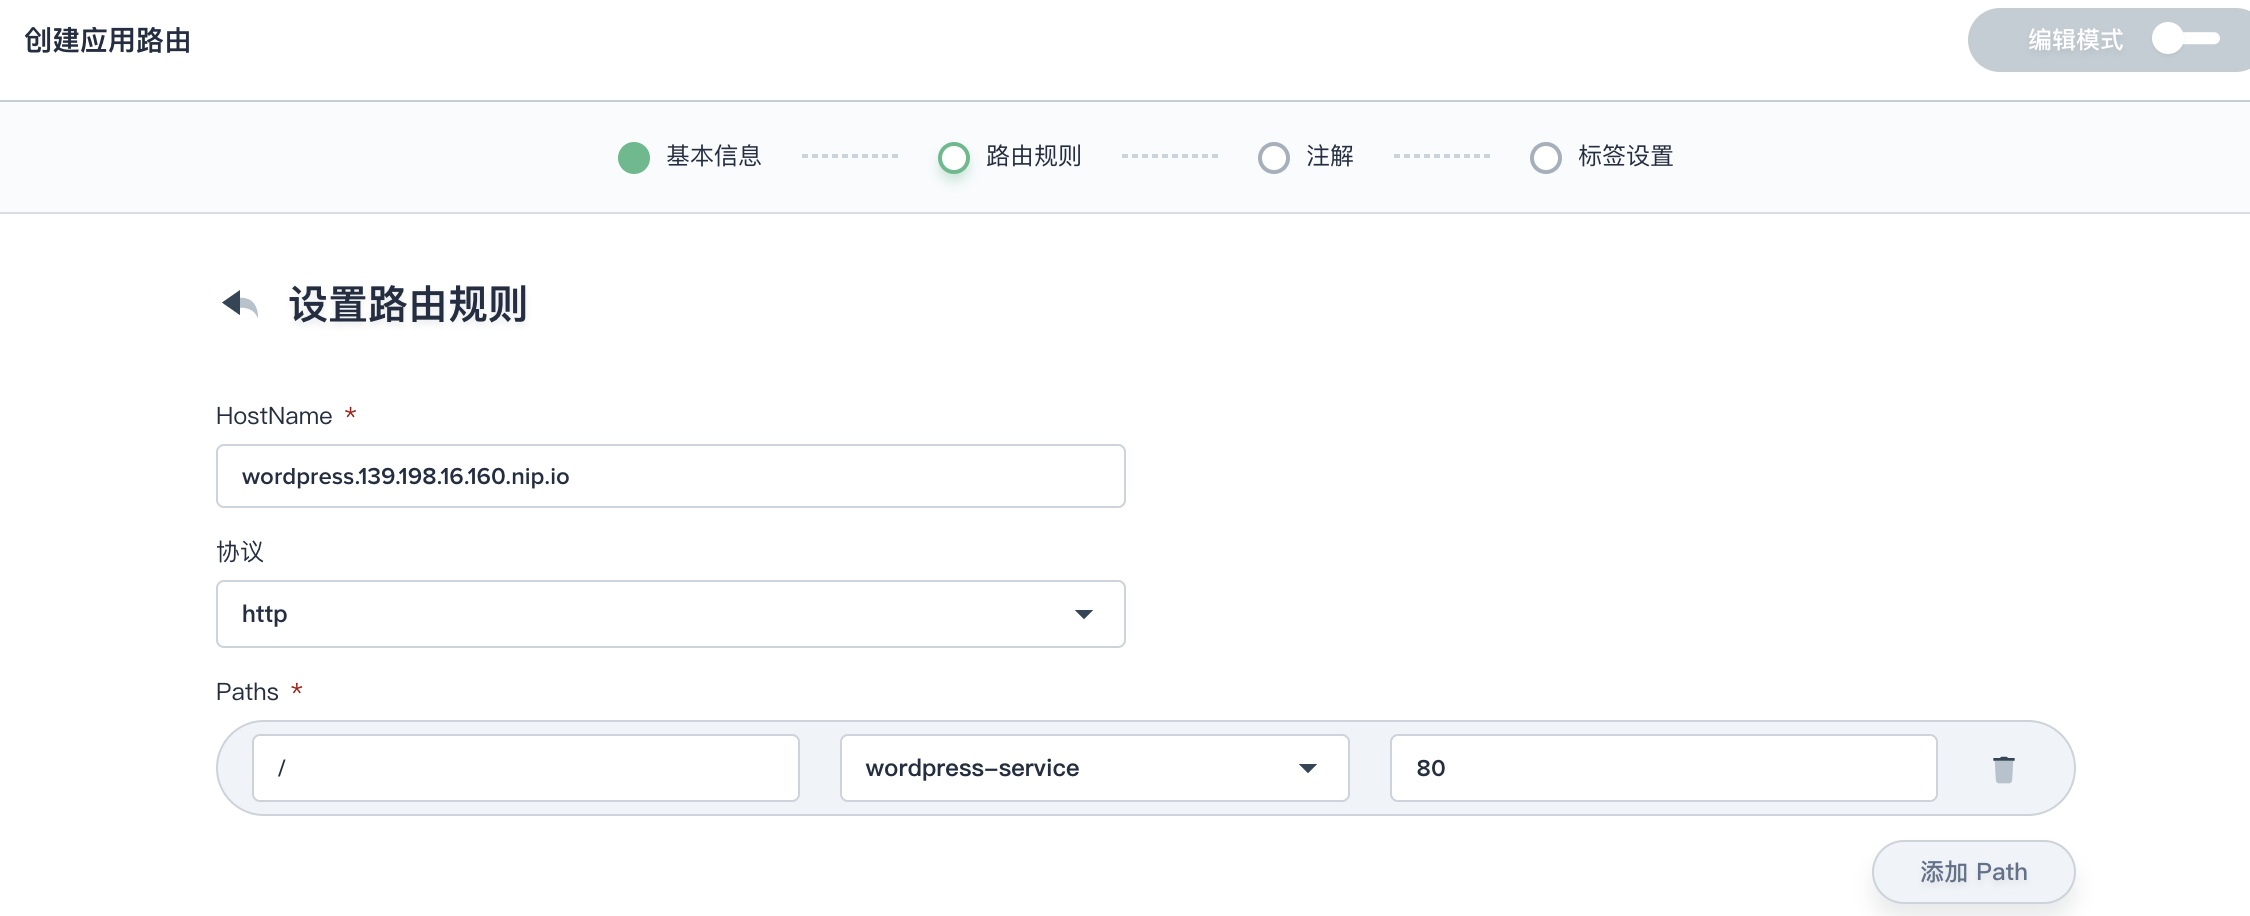
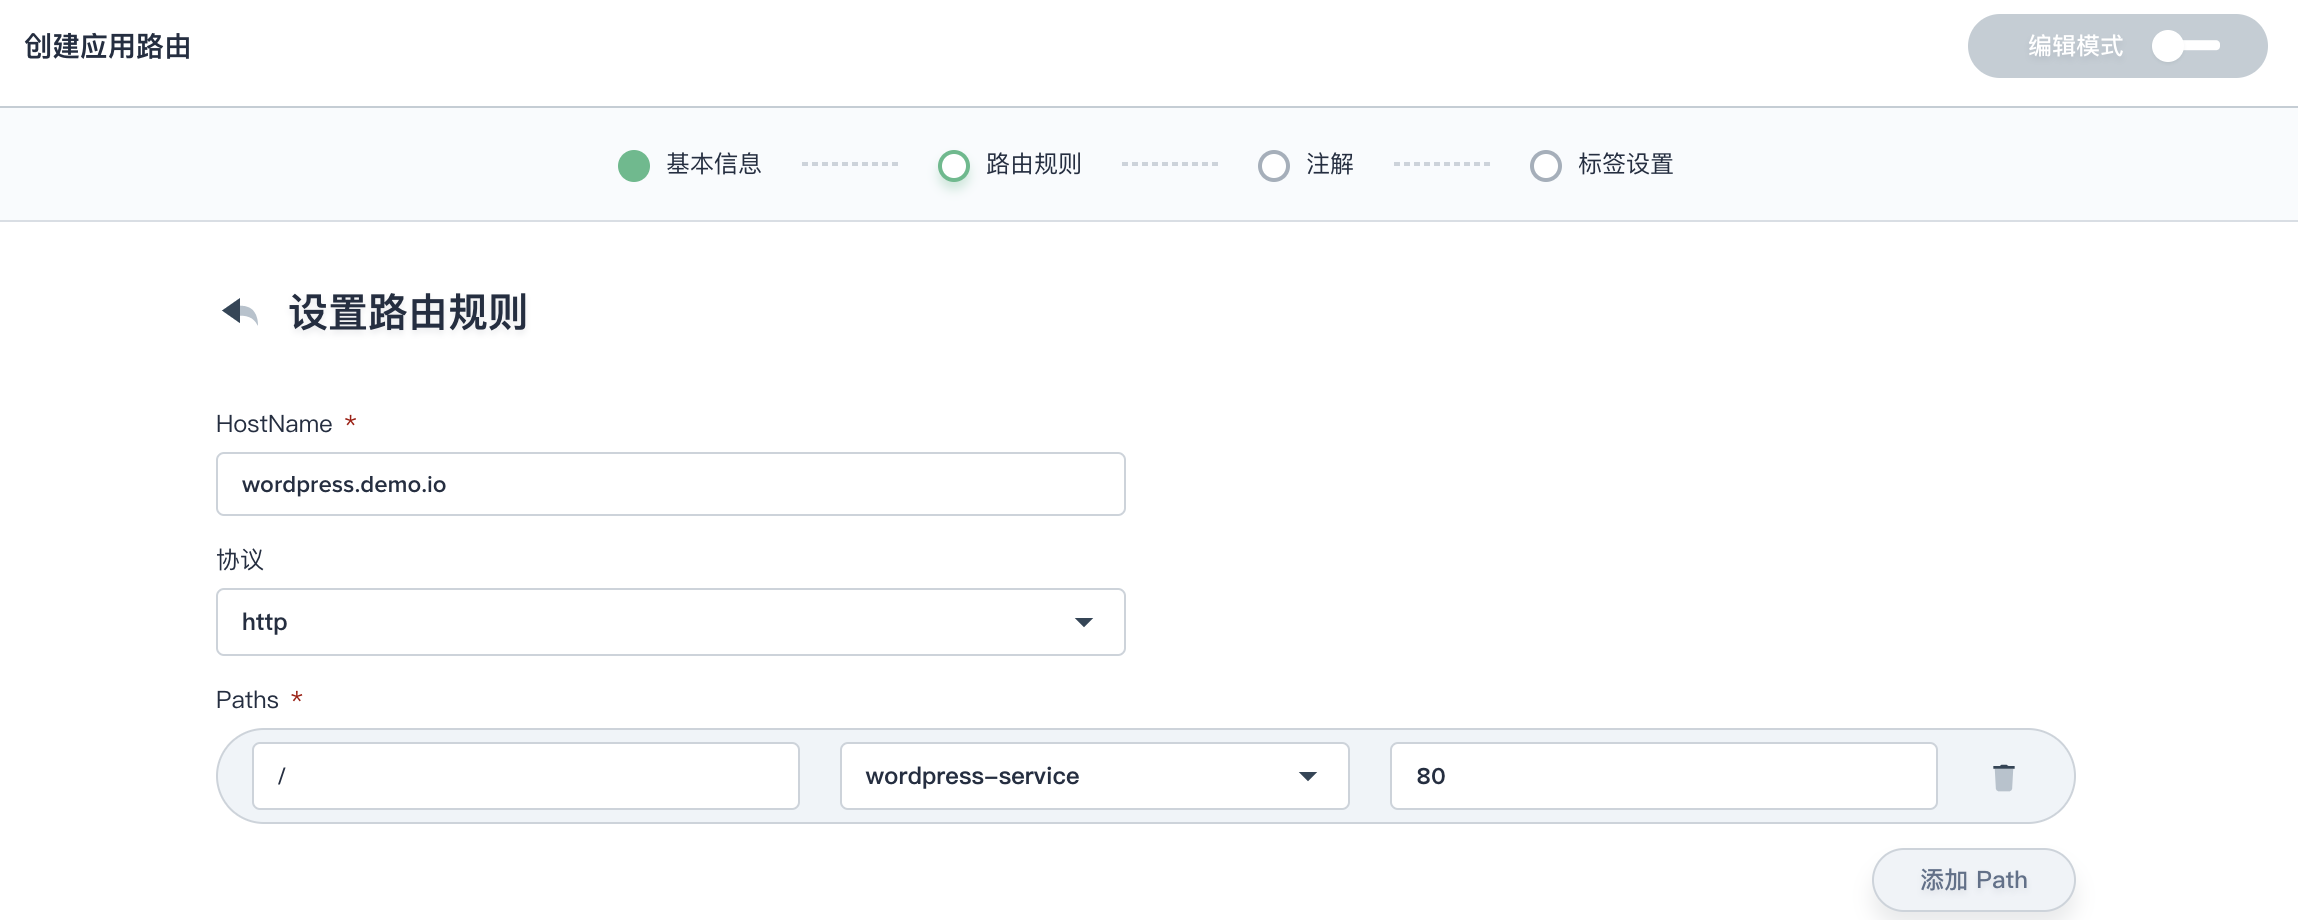
update faq, quick start - wordpress

diff --git a/content/advanced-v1.0.0/zh-CN/quick-start/wordpress-deployment.md b/content/advanced-v1.0.0/zh-CN/quick-start/wordpress-deployment.md
@@ -180,26 +180,23 @@ app=wordpress-service
 
 ![创建应用路由](/wordpress-ingress-basic.png)
 
-9.3. 为应用路由设置路由规则，点击 **添加路由规则**。如果是在公网环境中，路由规则中的 **Hostname** 可以使用 [nip.io](http://nip.io/)  作为应用路由的域名解析。nip.io 是一个免费的域名解析服务，可以将符合下列格式的域名解析对应的 IP，可用来作为应用路由的解析服务，省去配置本地 hosts 文件的步骤。
+9.3. 下一步，点击 **添加路由规则**，参考如下配置路由规则。完成后点击 **保存**，然后点击 **下一步**。
 
-例如，集群的公网 IP 地址为 139.198.16.160，在创建应用路由时，参考如下配置路由规则。完成后点击 **保存**，然后点击 **下一步**。
-
-- Hostname：可自定义，比如设置为 `wordpress.139.198.16.160.nip.io`，它是应用路由规则的访问域名。若外网访问设置为 NodePort，最终则使用 `{$Hostname}:{$NodePort}` 来访问应用路由后端的服务
+- Hostname：可自定义，比如设置为 `wordpress.demo.io`，它是应用路由规则的访问域名，最终使用此域名来访问对应的服务 (如果访问入口是以 NodePort 的方式启用，需要保证 Hostname 能够在客户端正确解析到集群工作节点上；如果是以 LoadBalancer 方式启用，需要保证 Hostname 正确解析到负载均衡器的 IP 上)。
 - 协议：选择 `http` (若使用 https 需要预先在密钥中添加相关的证书)
-- Paths：应用规则的路径和对应的后端服务，路径填写 "/"，服务选择之前创建的服务 `wordpress-service`，端口填写 wordpress 服务端口 `80`，完成后点击 **保存** 然后选择 **下一步**
-
+- Paths：应用规则的路径和对应的后端服务，路径填写 "/"，服务选择之前创建的服务 `wordpress-service`，端口填写 wordpress 服务端口 `80`，完成后点击下一步：
 
 ![设置路由规则](/wordpress-ingress-setting.png)
 
-> 说明：如果是在私有环境下，我们可以直接在主机的 hosts 文件中添加记录来使域名解析到对应的 IP。例如，将 hostname 设置为 `wordpress.demo.io`，我们在 `/etc/hosts` 文件中添加如下记录。需要保证客户端与集群工作节点的 IP 网络可通，比如这里是 `192.168.0.4`，也可以使用其它工作节点的 IP。只要客户端和工作节点网络是通的，设置完之后，在浏览器中使用域名和网关的端口号 `http://wordpress.demo.io:30517` 即可访问 (此示例中用的是外网访问的网关 (Gateway) 的第一个端口 30517，它对应的是 HTTP 协议的 80 端口)。
+9.4. 在本地的 hosts 文件中添加记录来使域名解析到对应的 IP。例如，集群的公网 IP 为 `139.198.16.160`，且上一步将 hostname 设置为 `wordpress.demo.io`，我们在 `/etc/hosts` 文件中添加如下记录。
 
 ```bash
-192.168.0.4 wordpress.demo.io
+139.198.16.160 wordpress.demo.io
 ```
 
-9.4. [Annotation](https://kubernetes.io/docs/concepts/overview/working-with-objects/annotations/) 是用户定义的 “附加” 信息，本示例暂不设置注解，点击 **下一步** 进入标签设置。
+9.5. [Annotation](https://kubernetes.io/docs/concepts/overview/working-with-objects/annotations/) 是用户定义的 “附加” 信息，本示例暂不设置注解，点击 **下一步** 进入标签设置。
 
-9.5. 为方便识别此应用，我们标签设置如下。点击 **创建**，即可创建成功。
+9.6. 为方便识别此应用，我们标签设置如下。点击 **创建**，即可创建成功。
 
 ```
 app=wordpress-ingress
@@ -239,7 +236,7 @@ app=wordpress-ingress
 
 ### 访问 Wordpress
 
-设置完成后，WordPress 就以应用路由的方式通过网关入口暴露到外网，由于在路由规则中我们选择的是 http 协议，因此可以通过示例中在路由规则和外网访问配置的 `{$hostname}:{$NodePort}` 如 `http://wordpress.139.198.16.160.nip.io:30517` 访问 WordPress 博客网站。
+设置完成后，WordPress 就以应用路由的方式通过网关入口暴露到外网，由于在路由规则中我们选择的是 http 协议，因此可以通过示例中在路由规则和外网访问配置的 `{$hostname}:{$NodePort}` 如 `http://wordpress.demo.io:30517` 访问 WordPress 博客网站。
 
 ![访问 Wordpress](/wordpress-homepage.png)
 

diff --git a/content/advanced-v1.0.0/zh-CN/faq.md b/content/advanced-v1.0.0/zh-CN/faq.md
@@ -2,9 +2,13 @@
 title: "常见问题" 
 ---
 
+### 如何快速了解 KubeSphere
+
 1、作为新手，如何快速了解 KubeSphere 的使用？
 
 答：我们提供了多个快速入门的示例包括工作负载和 DevOps 工程，建议从 [快速入门](../../zh-CN/quick-start/quick-start-guide) 入手，参考 **快速入门** 并实践和操作每一个示例。
+
+### Multi-node 安装配置相关问题
 
 2、[Multi-Node 模式](../installation/multi-node) 安装时，如果某些服务器的 **Ubuntu** 系统默认管理员用户为 `ubuntu`，若切换为 `root` 用户进行安装，应该如何配置和操作？
 
@@ -42,6 +46,7 @@ kube-node
 kube-master 
 
 ```
+### 安装失败相关问题
 
 3、安装过程中，如果遇到安装失败并且发现错误日志中有这类信息：`The following packages have pending transactions`，这种情况应该如何处理？
 
@@ -68,6 +73,7 @@ nameserver 100.64.9.5
 ···
 ``` -->
 
+### 流水线运行报错相关问题
 
 4、创建 Jenkins 流水线后，运行时报错怎么处理？
 
@@ -83,12 +89,15 @@ nameserver 100.64.9.5
 
 答：可能由于网络问题造成，建议尝试再次运行该流水线。
 
+### 如何查看 kubeconfig 文件
 
 6、如何查看 Kubeconfig 文件？
 
 用户可以通过打开 Kubectl UI 查看 Kubeconfig 文件，仅管理员或拥有 Kubectl UI 权限的用户有权限。
 
 ![查看 Kubeconfig 文件](/view-kubeconfig.png)
+
+### 如何访问 Jenkins 服务端
 
 7、如何访问和登录 Jenkins 服务端？
 
